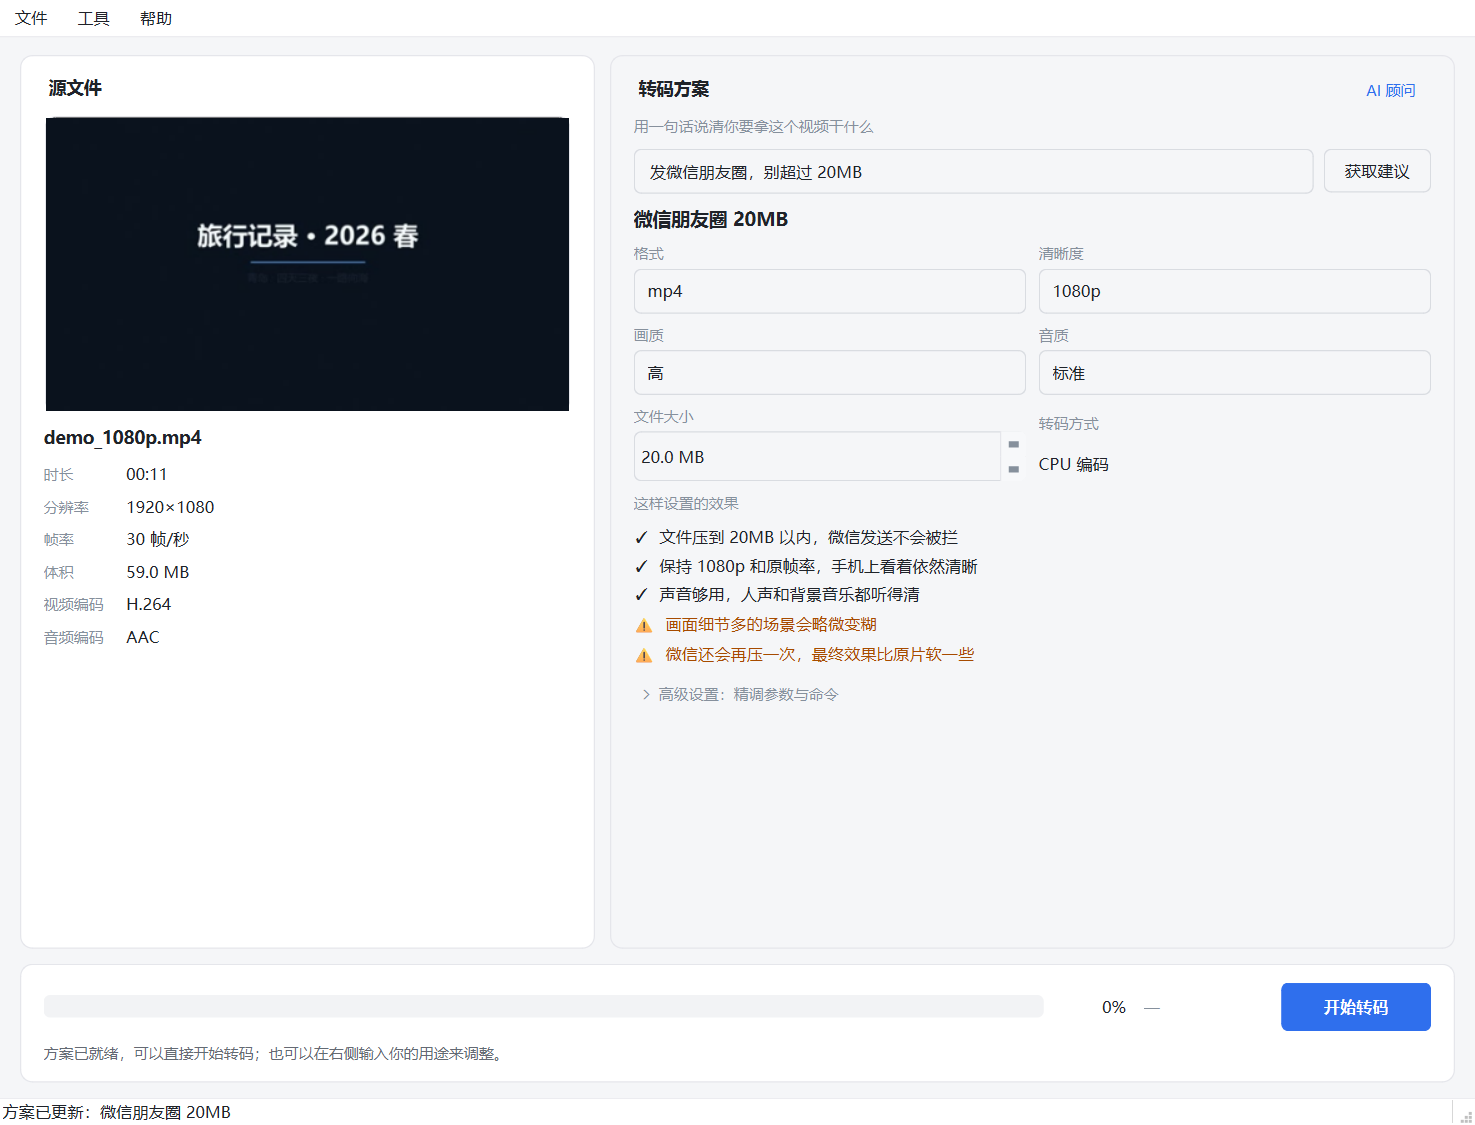
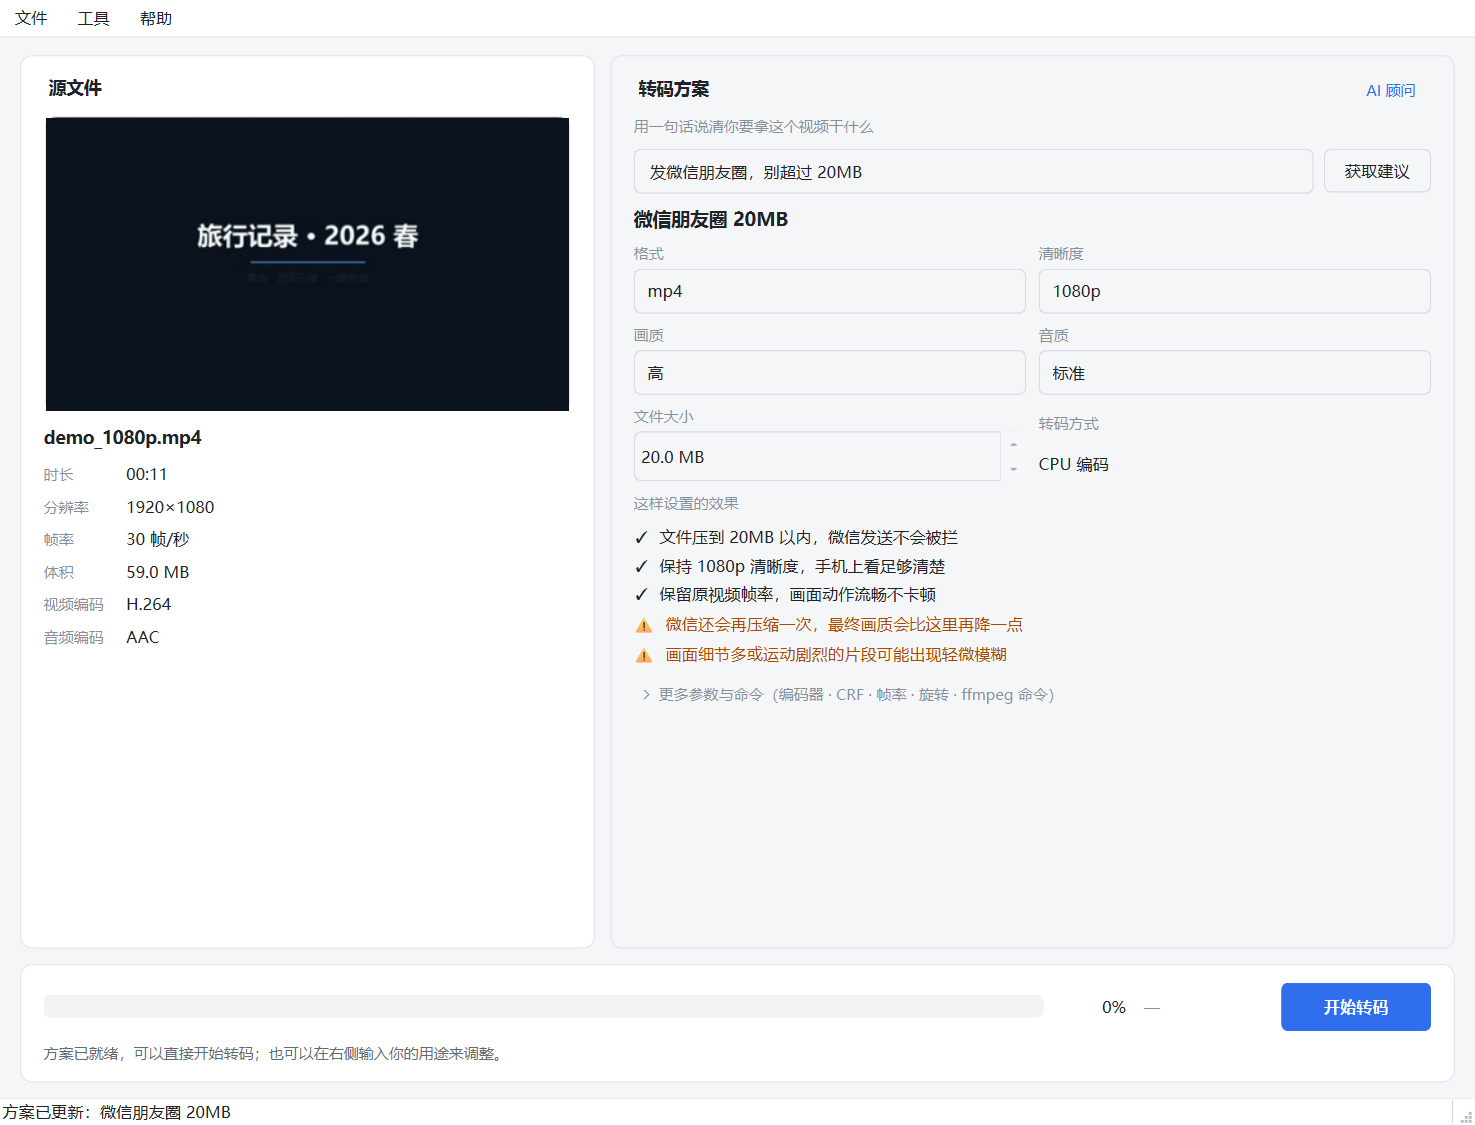
docs: 记下"空状态给路径"这条，并重录截图与 GIF
- DECISIONS 第 13 节：六个灰框错在描述一个还不存在的状态；
  置灰能表达"不能点"，表达不了"该干什么"
- SESSION_LOG 第十二个问题：两次改版后以为差不多了，看到别人的空状态
  才明白自己在做减法、人家在做加法；顺带记下三角形那个 bug 的三次试错
- README 新增「空状态给路径，不给控件」，并把「高级设置」统一改成新名字
- MANUAL_TEST 增到 37 项，25/27 按新界面重写，新增 34~37（空态按钮、
  格式说明、两个数值框的箭头与取值）
- 截图与 GIF 全部按新界面重录

Changed region(s): [[0.4366, 0.4978, 0.7173, 0.6222]]

diff --git a/docs/DECISIONS.md b/docs/DECISIONS.md
@@ -294,3 +294,58 @@
 
 一个参数该不该出现在主界面，标准不是"普通人会不会用"，而是
 "不知道它是什么的人，会不会因为它而不敢点开始"。前一个标准会删掉太多东西。
+
+---
+
+## 13. 空状态：用户缺的不是知识，是下一步
+
+这一节来自一组同类产品的截图。小程序的首页上面写着两行大字：
+
+> 第一步：选择视频
+> 第二步：开始转换
+
+占掉屏幕上部四分之一，其余参数全部收在「视频选项 → 更改视频参数」下面。
+网页版是一张大拖拽卡片，卡片里写着步骤 1、2、3，以及支持导入哪八种格式。
+
+回头看我们当时的空状态：左栏一句「拖一个视频到这里」，右栏**六个灰掉的下拉框**，
+里面还显示着 mp4 / 原画 / 极佳 / 省流量 / 不限。
+
+### 那六个灰框错在哪
+
+不是"信息太多"，是**它在描述一个还不存在的状态**。
+
+灰框里写着 mp4，用户读到的是"格式已经选成 mp4 了"。他点一下——点不动。
+这时他得到的不是"我还需要先选个视频"，而是"这软件是不是坏了"。
+**能看见却点不动，比看不见更糟**：看不见只是没有信息，看见却点不动是一个矛盾。
+
+我上一版为此把参数区置灰，理由是"灰着就是明确说先给我视频"。这个判断只对了一半：
+置灰能表达"不能点"，表达不了"该干什么"。而空状态下用户唯一需要的信息，恰恰是后者。
+
+### 现在怎么做
+
+右栏换成一张卡，写三步，其中第二步明确标「（可以跳过）」：
+
+> ① 拖一个视频进来，或点左上角「打开文件」
+> ② 说一句你要拿去干什么，比如「发朋友圈，别超过 20MB」　（可以跳过）
+> ③ 点「开始转码」，转好的文件就在原文件旁边
+
+三个细节各自解决一个具体疑虑：
+
+| 细节 | 为什么 |
+|---|---|
+| 第二步标「可以跳过」 | 不标的话，用户会以为"不说一句话就不能转"，卡在第一步。而这个软件最省事的用法恰恰就是跳过它 |
+| 左栏拖拽区下面写明支持的格式 | 用户拖之前就想知道 `.mov`、`.mkv` 行不行。同类产品把这条当卖点写进最显眼的拖拽卡片，说明它确实是疑虑点，不是废话 |
+| 「开始转码」置灰 | 同类产品两端都是亮着等你点，点了再弹"请先选择视频"。把一句话的拒绝拆成两次交互，成本只是被推给了用户 |
+
+### 顺带改的：折叠入口的文案
+
+原来是「高级设置：精调参数与命令」。"高级设置"是个分类名，用户读完仍然不知道
+里面有没有他要找的东西。现在是「更多参数与命令（编码器 · CRF · 帧率 · 旋转 · ffmpeg 命令）」。
+
+**分类名回答"这是什么"，清单回答"我要不要点"。** 后者才是决策所需的。
+
+### 一条可以搬走的判断
+
+空状态下，界面上每一个可见元素都该回答同一个问题：**下一步做什么**。
+回答不了这个问题的元素——包括显示着默认值的禁用控件——应该消失，而不是变灰。
+灰的意思是"暂时不可用"，不是"现在不该看"。

diff --git a/docs/MANUAL_TEST.md b/docs/MANUAL_TEST.md
@@ -4,7 +4,7 @@
 > 结果列留空等到实测后填，不预先勾选。
 >
 > 环境：Windows 11 x64 / RTX 5060（驱动 573.24）
-> 被测版本：Release v1.2.0（`VideoBox-win64.zip` 解压版）
+> 被测版本：Release v1.2.2（`VideoBox-win64.zip` 解压版）
 > 素材：`手工自测/` 目录（本地产物，不入库，用 `scripts/make_manual_fixtures.py` 可重新生成）
 
 ---
@@ -71,9 +71,9 @@
 
 | # | 操作 | 预期 | 实测结果 |
 |---|---|---|---|
-| 25 | 刚打开程序，什么都别做 | 右栏参数是**灰色不可点**的，「这样设置的效果」和「高级设置」都不显示，「开始转码」是灰的 | |
+| 25 | 刚打开程序，什么都别做 | 右栏是一张白卡片，写着三步（第二步标「可以跳过」）；参数区、输入框、说明区都不出现；「开始转码」是灰的 | |
 | 26 | 载入视频后，把「文件大小」改成 500 MB（远大于原片） | 参数区上方出现浅黄提示：原片 xx MB，比 500 MB 的目标还小，这次按画质优先处理 | |
-| 27 | 点开「高级设置：精调参数与命令」 | 展开 8 个参数 + 「去掉声音」，最底下是完整 ffmpeg 命令，可选中复制；再点一次收起 | |
+| 27 | 点开「更多参数与命令（编码器 · CRF · 帧率 · 旋转 · ffmpeg 命令）」 | 展开 8 个参数 + 「去掉声音」，最底下是完整 ffmpeg 命令，可选中复制；再点一次收起 | |
 | 28 | 在高级设置里把「质量值 CRF」改成 20 | 上面的「画质」自动跳到「极佳」；改回 26 时跳回「标准」 | |
 | 29 | 把窗口缩到最小 1000×660，再展开高级设置 | 右栏出现纵向滚动条，滚到底能看到命令，内容不会被窗口裁掉 | |
 
@@ -86,11 +86,20 @@
 | 32 | 高级设置里「音频编码」选「直接复制原音轨」 | 命令里是 `-c:a copy`，且不出现 `-b:a` / `-ar` / `-ac`；输出音轨与源一致 | |
 | 33 | 「帧率」选「24 帧」转一次 | 命令里有 `-r 24`，输出帧率为 24 | |
 
+## 八、空状态与控件渲染（v1.2.2 新增）
+
+| # | 操作 | 预期 | 实测结果 |
+|---|---|---|---|
+| 34 | 空状态下，往「开始转码」按钮的位置点一下 | 按钮是灰的、点不动。**不应该**是亮着等你点、点了再弹「请先打开视频」 | |
+| 35 | 空状态下看左栏虚线框下面那行小字 | 写着支持哪些格式（mp4 · mov · mkv · avi · webm · flv · ts）；拿一个列表里的格式拖进来能正常打开 | |
+| 36 | 载入视频后，看「文件大小」右侧 | 有上下两个小三角箭头；框里显示 `20.0 MB` 之类的值，不能是空框 | |
+| 37 | 展开「更多参数与命令」，看「质量值 CRF」「音频码率」两个数值框 | 同样有箭头、有数字，没有灰方块或压扁的输入区 | |
+
 ---
 
 ## 结论
 
-- 通过项：\_\_ / 33
+- 通过项：\_\_ / 37
 - 未通过项及现象：
 
 ---

diff --git a/README.md b/README.md
@@ -55,7 +55,7 @@ VideoBox 的假设是：**用户知道自己要干什么，只是不知道对应
 > 「存档用，别给我降分辨率」
 
 方案会落到右栏，六个参数全部是可选的档位，不是需要背下来的数字。
-想要 CRF、帧率、采样率这些，展开「高级设置」，它们都在，还能直接看到
+想要 CRF、帧率、采样率这些，展开「更多参数与命令」，它们都在，还能直接看到
 将要执行的那条命令。不想说话也行——载入文件时就已经给了一个通用方案，直接转就可以。
 
 **3. 点开始，看结果**
@@ -114,7 +114,8 @@ VideoBox 的假设是：**用户知道自己要干什么，只是不知道对应
 **默认给判断，高级给参数。** 主界面只出现人能判断的东西：画质是
 「极佳 / 高 / 标准 / 省体积」，音质是「省流量 / 标准 / 清晰 / 高音质」，
 清晰度是「原画 / 1080p / 720p / 480p」。想要数值的人往下走一层，
-「高级设置」里有编码器偏好、CRF、帧率、音频编码、码率、采样率、声道、旋转。
+「更多参数与命令」里有编码器偏好、CRF、帧率、音频编码、码率、采样率、声道、旋转——
+入口文案把能改的东西列出来，而不是写一句抽象的"高级设置"。
 
 这里有过一次纠偏。最早是 18~35 的数字框，普通用户不敢动；后来改成只有四个档位，
 又轮到能精调的人被挡在门外——**把选择权收走不叫体贴，叫阉割**。现在是两层，
@@ -135,8 +136,20 @@ VideoBox 的假设是：**用户知道自己要干什么，只是不知道对应
 有人想确认这软件有没有偷偷上传、有没有偷偷改参数，展开一眼就看清楚；
 多数人不需要，就不该占着屏幕。
 
-**空状态不说话。** 没有视频的时候，参数是灰的、说明区是收起的、"开始转码"不可点。
-留着一堆能点但没用的控件，是"看起来能用、其实不知道从哪开始"的典型来源。
+**空状态给路径，不给控件。** 没有视频时，右栏不是六个灰掉的下拉框——那种界面看着像
+"已经配好了"，其实一个都点不动。现在是一张写着三步的卡：
+
+> ① 拖一个视频进来，或点左上角「打开文件」
+> ② 说一句你要拿去干什么，比如「发朋友圈，别超过 20MB」　（可以跳过）
+> ③ 点「开始转码」，转好的文件就在原文件旁边
+
+左栏的拖拽区下面直接写清支持哪些格式——用户拖之前就想知道 `.mov`、`.mkv` 行不行。
+"开始转码"在没素材时是灰的，不是亮着等你去点、点了再告诉你"请先打开视频"。
+
+![空状态](docs/screenshots/01_empty.png)
+
+这条是看了同类产品之后补的。它们的空状态比当时那版好，好在**没把"下一步做什么"
+这件事留给用户去猜**。
 
 ## 下载与运行
 

diff --git a/docs/KNOWN_ISSUES.md b/docs/KNOWN_ISSUES.md
@@ -51,13 +51,14 @@
 
 ## 四、测试覆盖的空白
 
-已覆盖（84 个测试，其中 10 个是界面冒烟）：
+已覆盖（105 个测试，其中 14 个是界面冒烟）：
 - `ffprobe` JSON 解析、`ffmpeg -i` 兜底解析
 - 参数拼装、编码器回退、音轨缺失、缩放不放大、目标体积边界
 - 进度解析（含 `out_time_ms` 单位坑、`N/A`、越界、ETA）
 - 档位映射（画质/音质数值 ↔ 用户档位，越界与平局规则）
 - 本地规则引擎（关键词命中、参数合法域、说明文案不得含技术黑话）
-- 顾问面板的行为契约（空状态禁用、说明条数、置信度不得出现）
+- 顾问面板的行为契约（空态给引导不给控件、说明条数、置信度不得出现）
+- 两层参数的双向绑定（档位 ↔ CRF / 码率，精调值优先）
 
 **没覆盖到、只能人工验证的**：
 - 真实转码的正确性（画面是否正常、音画是否同步）
